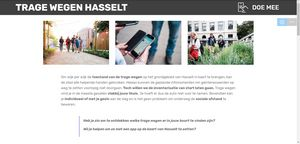
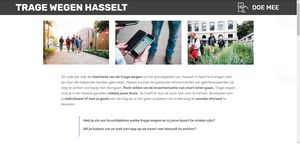
update_hokjes_10

diff --git a/index.html b/index.html
@@ -55,7 +55,7 @@
     </nav>
 </section>
 
-<section class="engine"><a href="https://mobirise.info/u">bootstrap html templates</a></section><section class="mbr-section article content3 cid-rQbUgujYzw" id="content3-n">
+<section class="engine"><a href="https://mobirise.info/f">easy website builder</a></section><section class="mbr-section article content3 cid-rQbUgujYzw" id="content3-n">
       
      
 
@@ -81,34 +81,34 @@
     <div class="container">
         
         
-        <div class="row mbr-gallery" data-toggle="modal" data-target="#rYnd8g2TeT">
+        <div class="row mbr-gallery" data-toggle="modal" data-target="#rYL1tuafoZ">
             <div class="col-sm-6 col-md-4 col-lg-3 item gallery-image">
                 <div class="item-wrapper">
-                    <img class="w-100" src="assets/images/tragewegen-201908-ingedelee-199.jpg" alt="" data-slide-to="0" title="" data-target="#rYnd8g2TuZ">
+                    <img class="w-100" src="assets/images/tragewegen-201908-ingedelee-199.jpg" alt="" data-slide-to="0" title="" data-target="#rYL1tuapWh">
                 </div>
             </div>
             <div class="col-sm-6 col-md-4 col-lg-3 item gallery-image">
                 <div class="item-wrapper">
-                    <img class="w-100" src="assets/images/tragewegen-201908-ingedelee-122.jpg" alt="" data-slide-to="1" title="" data-target="#rYnd8g2TuZ">
+                    <img class="w-100" src="assets/images/tragewegen-201908-ingedelee-122.jpg" alt="" data-slide-to="1" title="" data-target="#rYL1tuapWh">
                 </div>
             </div>
             <div class="col-sm-6 col-md-4 col-lg-3 item gallery-image">
                 <div class="item-wrapper">
-                    <img class="w-100" src="assets/images/tragewegen-201908-ingedelee-131.jpg" alt="" data-slide-to="2" title="" data-target="#rYnd8g2TuZ">
+                    <img class="w-100" src="assets/images/tragewegen-201908-ingedelee-131.jpg" alt="" data-slide-to="2" title="" data-target="#rYL1tuapWh">
                 </div>
             </div><div class="col-sm-6 col-md-4 col-lg-3 item gallery-image">
                 <div class="item-wrapper">
-                    <img class="w-100" src="assets/images/tragewegen-201908-ingedelee-125.jpg" alt="" data-slide-to="3" title="" data-target="#rYnd8g2TuZ">
+                    <img class="w-100" src="assets/images/tragewegen-201908-ingedelee-125.jpg" alt="" data-slide-to="3" title="" data-target="#rYL1tuapWh">
                 </div>
             </div>
             
         </div>
 
-        <div class="modal mbr-slider fade" tabindex="-1" role="dialog" aria-hidden="true" id="rYnd8g2TeT">
+        <div class="modal mbr-slider fade" tabindex="-1" role="dialog" aria-hidden="true" id="rYL1tuafoZ">
             <div class="modal-dialog" role="document">
                 <div class="modal-content">
                     <div class="modal-body">
-                        <div class="carousel slide" data-ride="carousel" id="rYnd8g2TuZ">
+                        <div class="carousel slide" data-ride="carousel" id="rYL1tuapWh">
                             <div class="carousel-inner">
                                 <div class="carousel-item active">
                                     <img class="d-block w-100" src="assets/images/tragewegen-201908-ingedelee-199.jpg" alt="">
@@ -124,18 +124,18 @@
                                 
                             </div>
                             <ol class="carousel-indicators">
-                                <li data-slide-to="0" class="active" data-target="#rYnd8g2TuZ"></li><li data-slide-to="1" class="active" data-target="#rYnd8g2TuZ"></li>
-                                <li data-slide-to="2" data-target="#rYnd8g2TuZ"></li>
-                                <li data-slide-to="3" data-target="#rYnd8g2TuZ"></li>
+                                <li data-slide-to="0" class="active" data-target="#rYL1tuapWh"></li><li data-slide-to="1" class="active" data-target="#rYL1tuapWh"></li>
+                                <li data-slide-to="2" data-target="#rYL1tuapWh"></li>
+                                <li data-slide-to="3" data-target="#rYL1tuapWh"></li>
                                 
                             </ol>
                             <a role="button" href="" class="close" data-dismiss="modal" aria-label="Close">
                             </a>
-                            <a class="carousel-control-prev carousel-control" role="button" data-slide="prev" href="#rYnd8g2TuZ">
+                            <a class="carousel-control-prev carousel-control" role="button" data-slide="prev" href="#rYL1tuapWh">
                                 <span class="mbri-left mbr-iconfont" aria-hidden="true"></span>
                                 <span class="sr-only">Vorige</span>
                             </a>
-                            <a class="carousel-control-next carousel-control" role="button" data-slide="next" href="#rYnd8g2TuZ">
+                            <a class="carousel-control-next carousel-control" role="button" data-slide="next" href="#rYL1tuapWh">
                                 <span class="mbri-right mbr-iconfont" aria-hidden="true"></span>
                                 <span class="sr-only">Volgende</span>
                             </a>
@@ -169,34 +169,34 @@
     <div class="container">
         
         
-        <div class="row mbr-gallery" data-toggle="modal" data-target="#rYnd8g2zmp">
+        <div class="row mbr-gallery" data-toggle="modal" data-target="#rYL1tuabw3">
             <div class="col-sm-6 col-md-4 col-lg-3 item gallery-image">
                 <div class="item-wrapper">
-                    <img class="w-100" src="assets/images/tragewegen-201908-ingedelee-90.jpg" alt="" data-slide-to="0" title="" data-target="#rYnd8g2rP9">
+                    <img class="w-100" src="assets/images/tragewegen-201908-ingedelee-90.jpg" alt="" data-slide-to="0" title="" data-target="#rYL1tuaRtq">
                 </div>
             </div><div class="col-sm-6 col-md-4 col-lg-3 item gallery-image">
                 <div class="item-wrapper">
-                    <img class="w-100" src="assets/images/tragewegen-201908-ingedelee-77.jpg" alt="" data-slide-to="1" title="" data-target="#rYnd8g2rP9">
+                    <img class="w-100" src="assets/images/tragewegen-201908-ingedelee-77.jpg" alt="" data-slide-to="1" title="" data-target="#rYL1tuaRtq">
                 </div>
             </div><div class="col-sm-6 col-md-4 col-lg-3 item gallery-image">
                 <div class="item-wrapper">
-                    <img class="w-100" src="assets/images/tragewegen-201908-ingedelee-170.jpg" alt="" data-slide-to="2" title="" data-target="#rYnd8g2rP9">
+                    <img class="w-100" src="assets/images/tragewegen-201908-ingedelee-170.jpg" alt="" data-slide-to="2" title="" data-target="#rYL1tuaRtq">
                 </div>
             </div>
             <div class="col-sm-6 col-md-4 col-lg-3 item gallery-image">
                 <div class="item-wrapper">
-                    <img class="w-100" src="assets/images/tragewegen-201908-ingedelee-163.jpg" alt="" data-slide-to="3" title="" data-target="#rYnd8g2rP9">
+                    <img class="w-100" src="assets/images/tragewegen-201908-ingedelee-163.jpg" alt="" data-slide-to="3" title="" data-target="#rYL1tuaRtq">
                 </div>
             </div>
             
             
         </div>
 
-        <div class="modal mbr-slider fade" tabindex="-1" role="dialog" aria-hidden="true" id="rYnd8g2zmp">
+        <div class="modal mbr-slider fade" tabindex="-1" role="dialog" aria-hidden="true" id="rYL1tuabw3">
             <div class="modal-dialog" role="document">
                 <div class="modal-content">
                     <div class="modal-body">
-                        <div class="carousel slide" data-ride="carousel" id="rYnd8g2rP9">
+                        <div class="carousel slide" data-ride="carousel" id="rYL1tuaRtq">
                             <div class="carousel-inner">
                                 <div class="carousel-item active">
                                     <img class="d-block w-100" src="assets/images/tragewegen-201908-ingedelee-90.jpg" alt="">
@@ -212,18 +212,18 @@
                                 
                             </div>
                             <ol class="carousel-indicators">
-                                <li data-slide-to="0" class="active" data-target="#rYnd8g2rP9"></li>
-                                <li data-slide-to="1" data-target="#rYnd8g2rP9"></li>
-                                <li data-slide-to="2" data-target="#rYnd8g2rP9"></li>
-                                <li data-slide-to="3" data-target="#rYnd8g2rP9"></li>
+                                <li data-slide-to="0" class="active" data-target="#rYL1tuaRtq"></li>
+                                <li data-slide-to="1" data-target="#rYL1tuaRtq"></li>
+                                <li data-slide-to="2" data-target="#rYL1tuaRtq"></li>
+                                <li data-slide-to="3" data-target="#rYL1tuaRtq"></li>
                             </ol>
                             <a role="button" href="" class="close" data-dismiss="modal" aria-label="Close">
                             </a>
-                            <a class="carousel-control-prev carousel-control" role="button" data-slide="prev" href="#rYnd8g2rP9">
+                            <a class="carousel-control-prev carousel-control" role="button" data-slide="prev" href="#rYL1tuaRtq">
                                 <span class="mbri-left mbr-iconfont" aria-hidden="true"></span>
                                 <span class="sr-only">Vorige</span>
                             </a>
-                            <a class="carousel-control-next carousel-control" role="button" data-slide="next" href="#rYnd8g2rP9">
+                            <a class="carousel-control-next carousel-control" role="button" data-slide="next" href="#rYL1tuaRtq">
                                 <span class="mbri-right mbr-iconfont" aria-hidden="true"></span>
                                 <span class="sr-only">Volgende</span>
                             </a>

diff --git a/page1.html b/page1.html
@@ -55,7 +55,7 @@
     </nav>
 </section>
 
-<section class="engine"><a href="https://mobirise.info/u">bootstrap website templates</a></section><section class="features2 cid-rQmQMGRh2Z" id="features2-2z">
+<section class="engine"><a href="https://mobirise.info/r">free bootstrap templates</a></section><section class="features2 cid-rQmQMGRh2Z" id="features2-2z">
 
     
 
@@ -160,7 +160,7 @@
         <div class="row justify-content-center">
             <div class="media-container-column col-lg-8" data-form-type="formoid">
                 <!---Formbuilder Form--->
[2 lines of base64/hex data omitted]
                     <div class="row">
                         <div hidden="hidden" data-form-alert="" class="alert alert-success col-12">Bedankt voor jouw enthousiasme en medewerking!</div>
                         <div hidden="hidden" data-form-alert-danger="" class="alert alert-danger col-12">
@@ -209,7 +209,7 @@
 
     <figure class="mbr-figure container">
         <div class="image-block" style="width: 100%;">
-            <img src="assets/images/deelgemeenten-hokjes-nr-update-9.png" width="1400" alt="Mobirise" title="">
+            <img src="assets/images/deelgemeenten-hokjes-nr-update-10.png" width="1400" alt="Mobirise" title="">
             
         </div>
     </figure>
